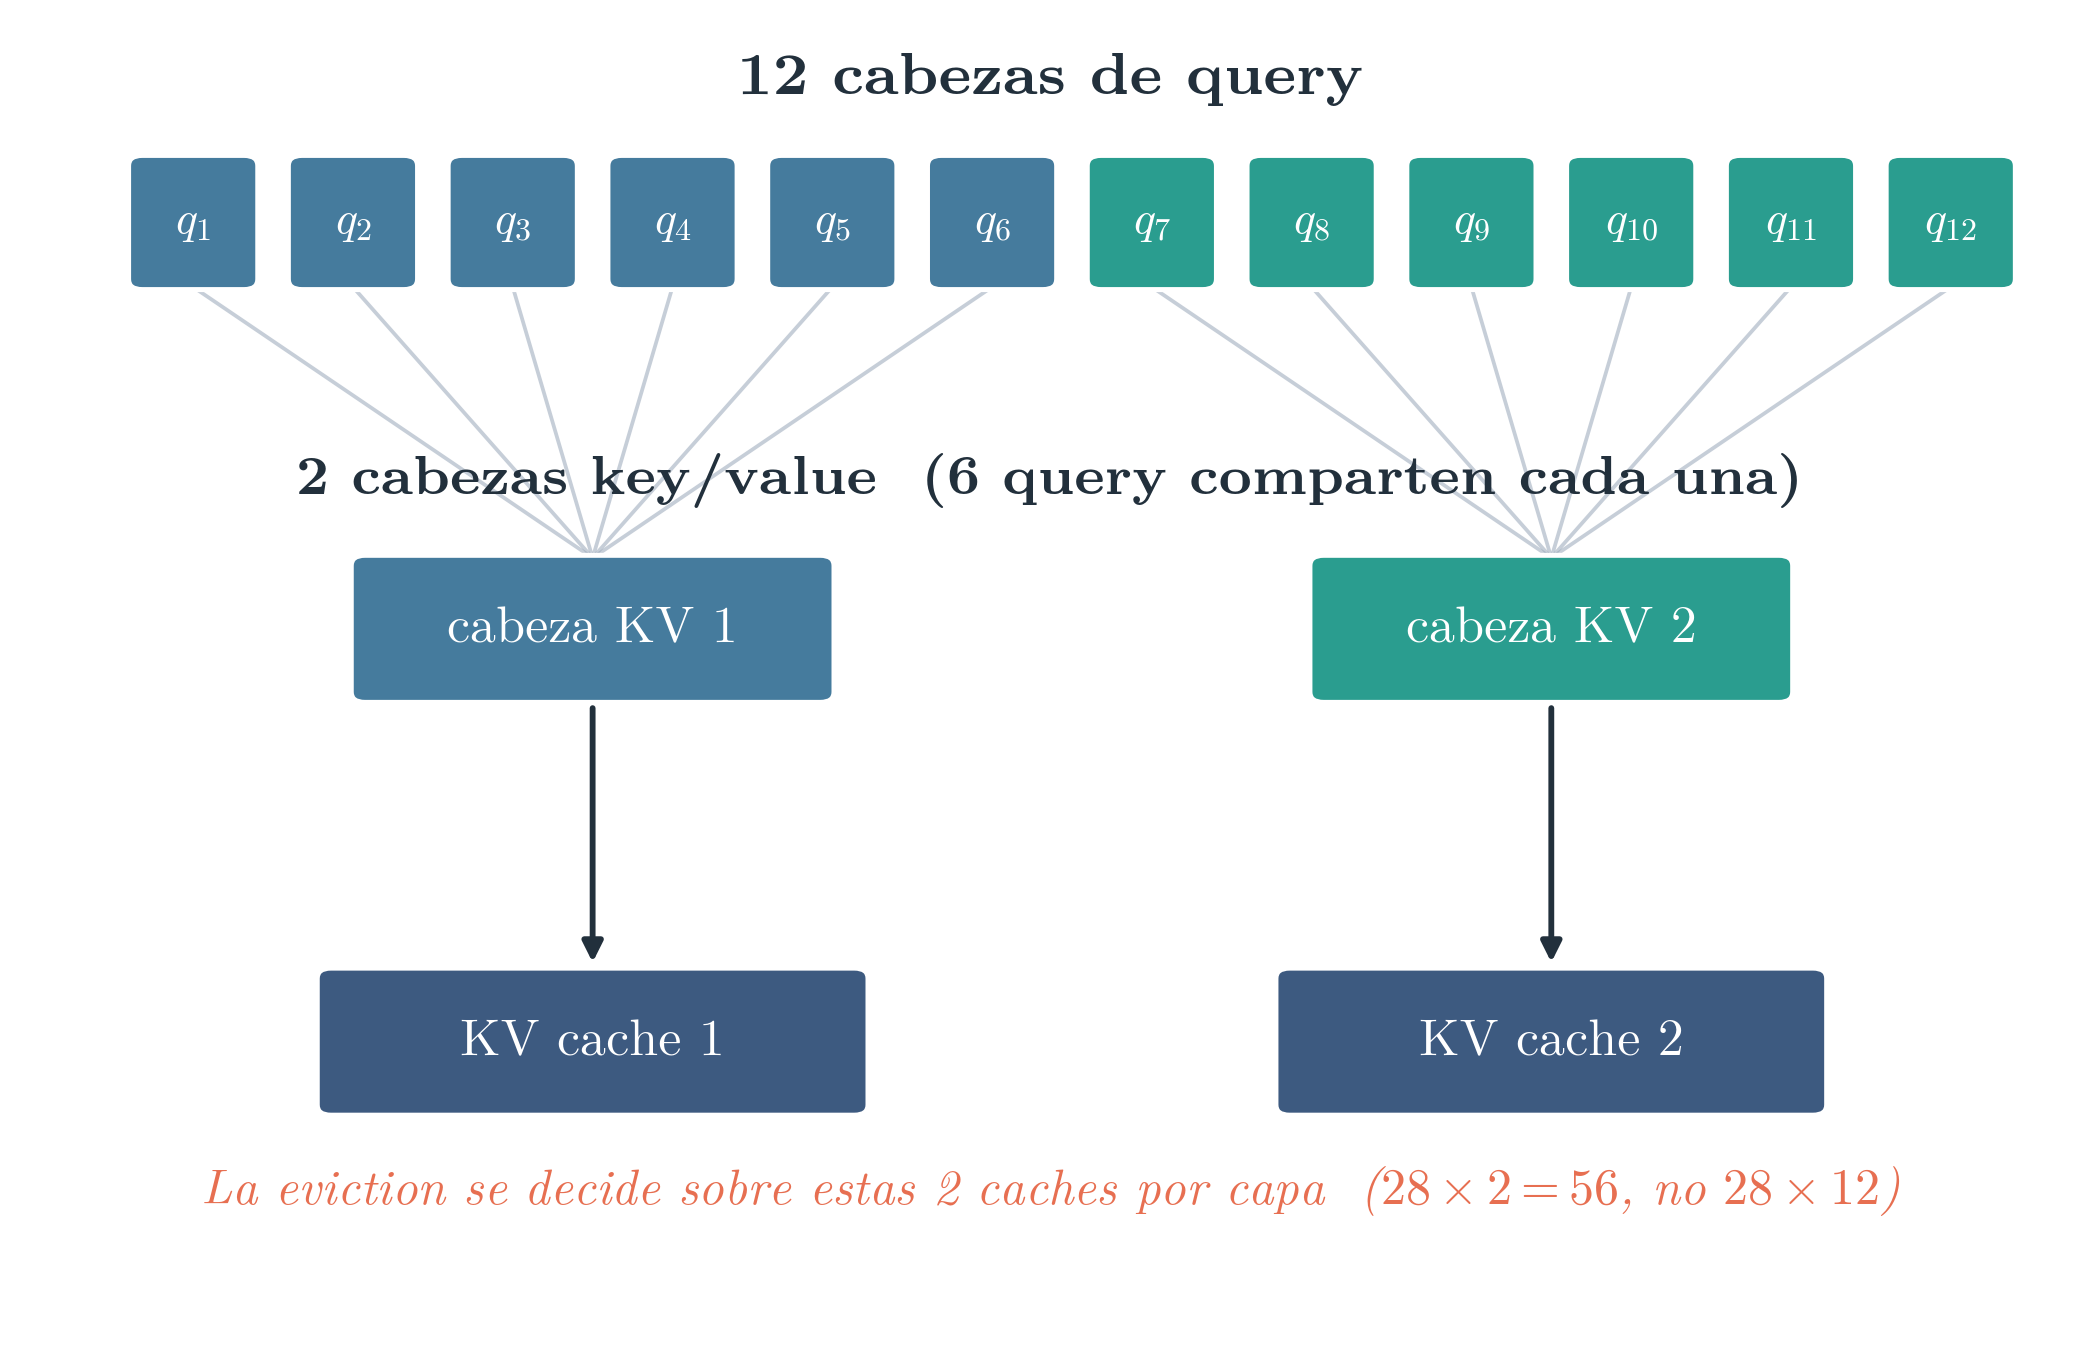
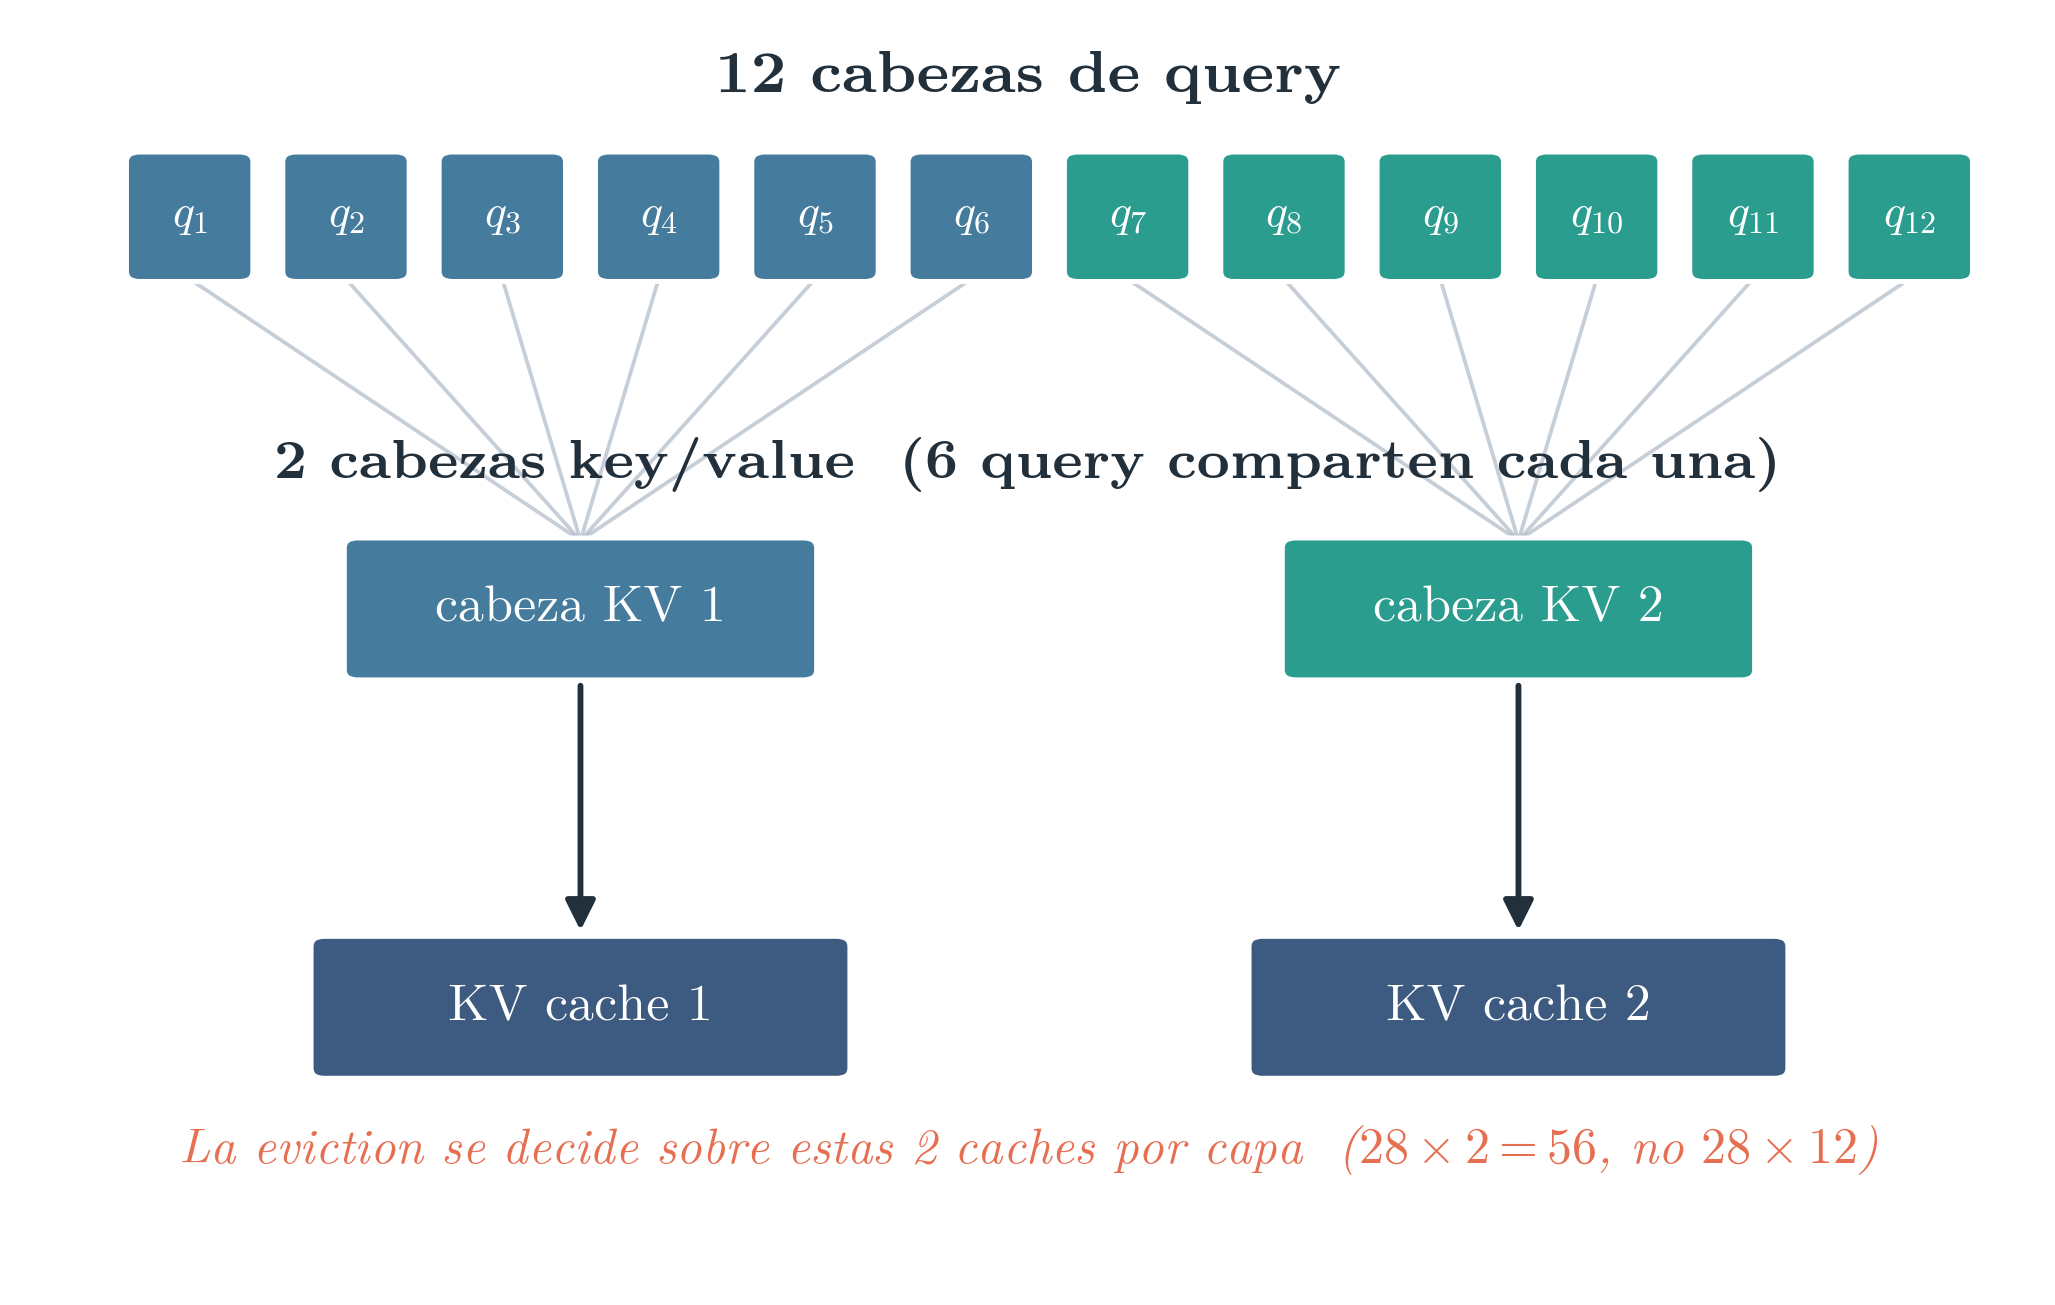
e12 figures: add entcoef to fig11 (was missing), entcoef6 to fig12/fig14, sort arms by gap
- fig11 hardcoded its bar order, so s_e12_entcoef finished but never appeared.
  Now the order is computed from the gap, so new arms place themselves.
- fig12 MIN_PROBES 4 -> 3 so entcoef6 enters as soon as it has data.
- entcoef is labelled 'cortada al 33%': the other bars average full 3M runs.
- move figuras.py / fig_gqa.py / plot_style.py under scripts/ (keeper2 calls them there).

diff --git a/kv-eviction-gym/scripts/plot_style.py b/kv-eviction-gym/scripts/plot_style.py
@@ -1,0 +1,126 @@
+"""Shared paper-style matplotlib config + a cohesive tonal palette.
+
+Located in scripts/. Import once and call ``apply_style()`` (or
+``apply_style(serif=True)`` for report-matching Latin Modern Roman text).
+
+Design goals (per the report's requested look):
+  - standard paper figure conventions: clean, light gridlines, no chartjunk,
+    readable labels, tight bounding box, 300 dpi.
+  - a single cohesive palette in a narrow tonal range (deep teal -> slate blue),
+    with ONE warm accent reserved for the "oracle / learned" hero series so the
+    key comparison pops without clashing.
+
+Parameters
+----------
+serif : bool, default False
+    When *False* (default) use DejaVu Sans with compact sizes (font.size 11).
+    When *True*  register Latin Modern Roman (like ``figuras.py``) and switch
+    to serif family with larger sizes suitable for the report.
+
+Import ``apply_style()`` once, then use PALETTE / SERIES_COLORS.
+"""
+import glob
+
+import matplotlib as mpl
+import matplotlib.font_manager as fm
+import matplotlib.pyplot as plt
+
+# Cohesive cool palette (teal -> blue), ordered light->dark, plus a warm accent.
+PALETTE = {
+    "teal":       "#2a9d8f",   # oracle / hero positive
+    "teal_light": "#8ecae6",
+    "blue":       "#457b9d",   # learned
+    "slate":      "#3d5a80",   # kv_norm (the bar to beat)
+    "slate_light":"#98a6b8",   # random
+    "grey":       "#c9ccd1",   # full-cache ceiling (neutral reference)
+    "accent":     "#e76f51",   # warm accent: the headline gap / winner
+    "accent_soft":"#f4a261",
+    "ink":        "#22303c",   # text / axes
+}
+
+# Canonical per-arm colors used across all figures for consistency.
+SERIES_COLORS = {
+    "full":       PALETTE["grey"],
+    "oracle_fut": PALETTE["teal"],
+    "oracle":     PALETTE["teal"],
+    "learned":    PALETTE["accent"],
+    "attn_cur":   PALETTE["blue"],
+    "attn_pre":   PALETTE["blue"],
+    "kv_norm":    PALETTE["slate"],
+    "random":     PALETTE["slate_light"],
+}
+
+SERIES_LABELS = {
+    "full":       "Full cache (ceiling)",
+    "oracle_fut": "Oracle (future attn.)",
+    "oracle":     "Oracle (future attn.)",
+    "learned":    "Learned",
+    "attn_cur":   "Attn. (present)",
+    "attn_pre":   "Attn. (prefill)",
+    "kv_norm":    "kv_norm (heuristic)",
+    "random":     "Random",
+}
+
+
+def apply_style(serif=False):
+    """Apply paper-quality matplotlib style.
+
+    Parameters
+    ----------
+    serif : bool, default False
+        Use Latin Modern Roman serif fonts with larger sizes (report mode).
+    """
+    if serif:
+        # Register Latin Modern Roman OTF fonts shipped by TeX Live so the
+        # figures match the report body text (mlmodern / Computer Modern).
+        for _f in glob.glob(
+            "/usr/share/texmf/fonts/opentype/public/lm/lmroman*.otf"
+        ):
+            try:
+                fm.fontManager.addfont(_f)
+            except Exception:
+                pass
+        font_params = {
+            "font.family":     "serif",
+            "font.serif":      ["Latin Modern Roman", "CMU Serif", "DejaVu Serif"],
+            "font.size":       15,
+            "axes.titlesize":  17,
+            "axes.labelsize":  15,
+            "xtick.labelsize": 13,
+            "ytick.labelsize": 13,
+            "legend.fontsize": 13,
+            "mathtext.fontset": "cm",
+        }
+    else:
+        font_params = {
+            "font.family":     "DejaVu Sans",
+            "font.size":       11,
+            "axes.titlesize":  13,
+            "axes.labelsize":  11,
+            "legend.fontsize": 9.5,
+        }
+
+    mpl.rcParams.update({
+        "figure.dpi":        120,
+        "savefig.dpi":       300,
+        "savefig.bbox":      "tight",
+        "axes.titleweight":  "bold",
+        "axes.edgecolor":    PALETTE["ink"],
+        "axes.linewidth":    0.9,
+        "axes.spines.top":   False,
+        "axes.spines.right": False,
+        "axes.grid":         True,
+        "axes.axisbelow":    True,
+        "grid.color":        "#e6e8eb",
+        "grid.linewidth":    0.8,
+        "xtick.color":       PALETTE["ink"],
+        "ytick.color":       PALETTE["ink"],
+        "text.color":        PALETTE["ink"],
+        "legend.frameon":    False,
+        **font_params,
+    })
+
+
+if __name__ == "__main__":
+    for name, hexcode in PALETTE.items():
+        print(f"  {name:14s}  {hexcode}")

diff --git a/kv-eviction-gym/scripts/figuras_e12.py b/kv-eviction-gym/scripts/figuras_e12.py
@@ -71,8 +71,12 @@ def smooth(y, w=5):
 # ---------------------------------------------------------------------------
 def fig11_resumen():
     # (run, etiqueta legible, que knob cambia respecto de la config base)
-    # ordenadas de peor a mejor: la lectura va de abajo hacia arriba
+    # Etiquetas legibles. El orden final se calcula por gap (peor abajo), asi
+    # que agregar un brazo nuevo aca alcanza para que entre en la figura.
     arms = [
+        # cortada al 33%: la entropia colapso y todo truncaba. Se marca porque
+        # las demas barras promedian los 3M completos.
+        ("s_e12_entcoef",    "Menos exploración (coef. 0.003)\ncortada al 33%"),
         ("s_e12_lrdecay_s0", "Decaimiento de LR (semilla 0)"),
         ("s_e12_epochs4",    "4 épocas por rollout"),
         ("s_e12_lrdecay_s1", "Decaimiento de LR (semilla 1)"),
@@ -80,15 +84,17 @@ def fig11_resumen():
         ("s_e12_cont_klC",   "Config base extendida a 10M pasos"),
         ("s_e12_seed5",      "Config base (semilla 5)"),
     ]
-    labels, gaps, colors = [], [], []
+    rows = []
     for run, lab in arms:
         if not (D4 / f"{run}_probe.csv").exists() or not done(run):
             continue
         origin = P3 / "e11_klC_probe.csv" if run == "s_e12_cont_klC" else None
         _, learned, kv = series(run, origin)
-        gap = learned.mean() - kv
-        labels.append(lab); gaps.append(gap)
-        colors.append(C["accent"] if gap > 0 else C["slate_light"])
+        rows.append((learned.mean() - kv, lab))
+    rows.sort()                                  # peor primero => abajo del eje
+    gaps = [g for g, _ in rows]
+    labels = [l for _, l in rows]
+    colors = [C["accent"] if g > 0 else C["slate_light"] for g in gaps]
 
     # barras horizontales: las etiquetas son largas y en vertical se pisan
     fig, ax = plt.subplots(figsize=(7.8, 4.6))
@@ -126,13 +132,14 @@ def fig11_resumen():
 # ---------------------------------------------------------------------------
 def fig12_estabilidad():
     arms = [
-        ("s_e12_targetkl", "Recorte y KL objetivo\nmás conservadores", C["accent"]),
-        ("s_e12_entcoef",  "Menos exploración\n(coef. de entropía)", C["teal"]),
-        ("s_e12_epochs15", "15 épocas\npor rollout", C["blue"]),
+        ("s_e12_targetkl",  "Recorte y KL objetivo\nmás conservadores", C["accent"]),
+        ("s_e12_entcoef",   "Menos exploración\n(coef. 0.003, colapsa)", C["teal"]),
+        ("s_e12_entcoef6",  "Menos exploración\n(coef. 0.006)", C["teal_light"]),
+        ("s_e12_epochs15",  "15 épocas\npor rollout", C["blue"]),
     ]
     # un brazo con 1-2 probes no dibuja tendencia: entraria a la leyenda como
     # una linea invisible. Se muestra recien con suficientes puntos.
-    MIN_PROBES = 4
+    MIN_PROBES = 3
     present = []
     for r, l, c in arms:
         p = D4 / f"{r}_probe.csv"
@@ -244,7 +251,8 @@ def fig14_precision():
          P3 / "e11_klC_probe.csv"),
         ("s_e12_seed5",      "Config base (semilla 5)", None),
         ("s_e12_targetkl",   "Recorte y KL objetivo más conservadores", None),
-        ("s_e12_entcoef",    "Menos exploración (coef. de entropía)", None),
+        ("s_e12_entcoef",    "Menos exploración (coef. 0.003)", None),
+        ("s_e12_entcoef6",   "Menos exploración (coef. 0.006)", None),
         ("s_e12_epochs15",   "15 épocas por rollout", None),
         ("s_e12_epochs4",    "4 épocas por rollout", None),
         ("s_e12_lrdecay_s0", "Decaimiento de LR (semilla 0)", None),

diff --git a/kv-eviction-gym/scripts/figuras.py b/kv-eviction-gym/scripts/figuras.py
@@ -1,11 +1,11 @@
 """Genera todas las figuras del capitulo de Resultados (titulos en espanol).
 
-Cada celda produce una figura del informe y la guarda junto a este script (docs/imgs/).
+Cada celda produce una figura del informe y la guarda en docs/imgs/.
 Los datos crudos viven en kv-eviction-gym/ (ab_results/ y
 experiments/phase3-dataset-causality/data/). Todas las figuras usan una paleta
 cohesiva fria (teal -> pizarra) con un acento calido para la comparacion clave.
 
-Correr:  python docs/imgs/figuras.py
+Correr:  python scripts/figuras.py
 """
 # %% [markdown]
 # # Figuras del capitulo de Resultados
@@ -13,57 +13,21 @@ Correr:  python docs/imgs/figuras.py
 
 # %%
 import csv
-import glob
 import json
 from pathlib import Path
 
 import numpy as np
-import matplotlib as mpl
-import matplotlib.font_manager as fm
 import matplotlib.pyplot as plt
 
-REPO = Path(__file__).resolve().parents[2] / "kv-eviction-gym"
+from plot_style import apply_style, PALETTE as C
+
+apply_style(serif=True)
+
+REPO = Path(__file__).resolve().parent.parent          # kv-eviction-gym/
 AB = REPO / "ab_results"
 D3 = REPO / "experiments" / "phase3-dataset-causality" / "data"
-OUT = Path(__file__).resolve().parent
+OUT = REPO.parent / "docs" / "imgs"
 OUT.mkdir(parents=True, exist_ok=True)
-
-# --- Fuente del informe -------------------------------------------------------
-# El informe usa mlmodern (una variante de Computer Modern). Registramos las
-# Latin Modern Roman OTF de TeX Live, visualmente identicas, para que la letra
-# de los graficos coincida con el cuerpo del texto. Fallback a serif generica.
-for _f in glob.glob("/usr/share/texmf/fonts/opentype/public/lm/lmroman*.otf"):
-    try:
-        fm.fontManager.addfont(_f)
-    except Exception:
-        pass
-_SERIF = ["Latin Modern Roman", "CMU Serif", "DejaVu Serif"]
-
-# Paleta cohesiva (frio teal->pizarra) + un acento calido para la comparacion clave
-C = {
-    "teal": "#2a9d8f",       # oraculo / heroe positivo
-    "blue": "#457b9d",       # aprendida / atencion
-    "slate": "#3d5a80",      # kv_norm (la barra a superar)
-    "slate_light": "#98a6b8",  # random
-    "grey": "#c9ccd1",       # full-cache (techo)
-    "accent": "#e76f51",     # acento calido: el gap / el ganador
-    "ink": "#22303c",
-}
-
-# Tamanos grandes para que se lean bien reducidos en el informe.
-mpl.rcParams.update({
-    "figure.dpi": 120, "savefig.dpi": 300, "savefig.bbox": "tight",
-    "font.family": "serif", "font.serif": _SERIF, "font.size": 15,
-    "mathtext.fontset": "cm",
-    "axes.titlesize": 17, "axes.titleweight": "bold", "axes.labelsize": 15,
-    "axes.edgecolor": C["ink"], "axes.linewidth": 1.0,
-    "axes.spines.top": False, "axes.spines.right": False,
-    "axes.grid": True, "axes.axisbelow": True,
-    "grid.color": "#e6e8eb", "grid.linewidth": 0.8,
-    "xtick.labelsize": 13, "ytick.labelsize": 13,
-    "xtick.color": C["ink"], "ytick.color": C["ink"], "text.color": C["ink"],
-    "legend.frameon": False, "legend.fontsize": 13,
-})
 
 
 def read_probe(path):

diff --git a/kv-eviction-gym/scripts/fig_gqa.py b/kv-eviction-gym/scripts/fig_gqa.py
@@ -1,29 +1,16 @@
 """Diagrama esquematico de Grouped-Query Attention en Qwen2.5-1.5B.
 12 cabezas de query agrupadas de a 6 -> 2 cabezas KV -> 2 caches fisicas.
 Estilo del informe (Latin Modern, paleta cohesiva)."""
-import glob
-import matplotlib as mpl
-import matplotlib.font_manager as fm
 import matplotlib.pyplot as plt
 from matplotlib.patches import FancyBboxPatch
 from pathlib import Path
 
-for _f in glob.glob("/usr/share/texmf/fonts/opentype/public/lm/lmroman*.otf"):
-    try:
-        fm.fontManager.addfont(_f)
-    except Exception:
-        pass
+from plot_style import apply_style, PALETTE as C
 
-C = {"teal": "#2a9d8f", "blue": "#457b9d", "slate": "#3d5a80",
-     "slate_light": "#98a6b8", "grey": "#c9ccd1", "accent": "#e76f51",
-     "ink": "#22303c"}
-mpl.rcParams.update({
-    "font.family": "serif", "font.serif": ["Latin Modern Roman", "DejaVu Serif"],
-    "mathtext.fontset": "cm", "savefig.dpi": 300, "savefig.bbox": "tight",
-    "text.color": C["ink"],
-})
+apply_style(serif=True)
 
-OUT = Path(__file__).resolve().parent
+REPO = Path(__file__).resolve().parent.parent          # kv-eviction-gym/
+OUT = REPO.parent / "docs" / "imgs"
 
 fig, ax = plt.subplots(figsize=(7.2, 4.6))
 ax.set_xlim(0, 12); ax.set_ylim(0, 10); ax.axis("off")
